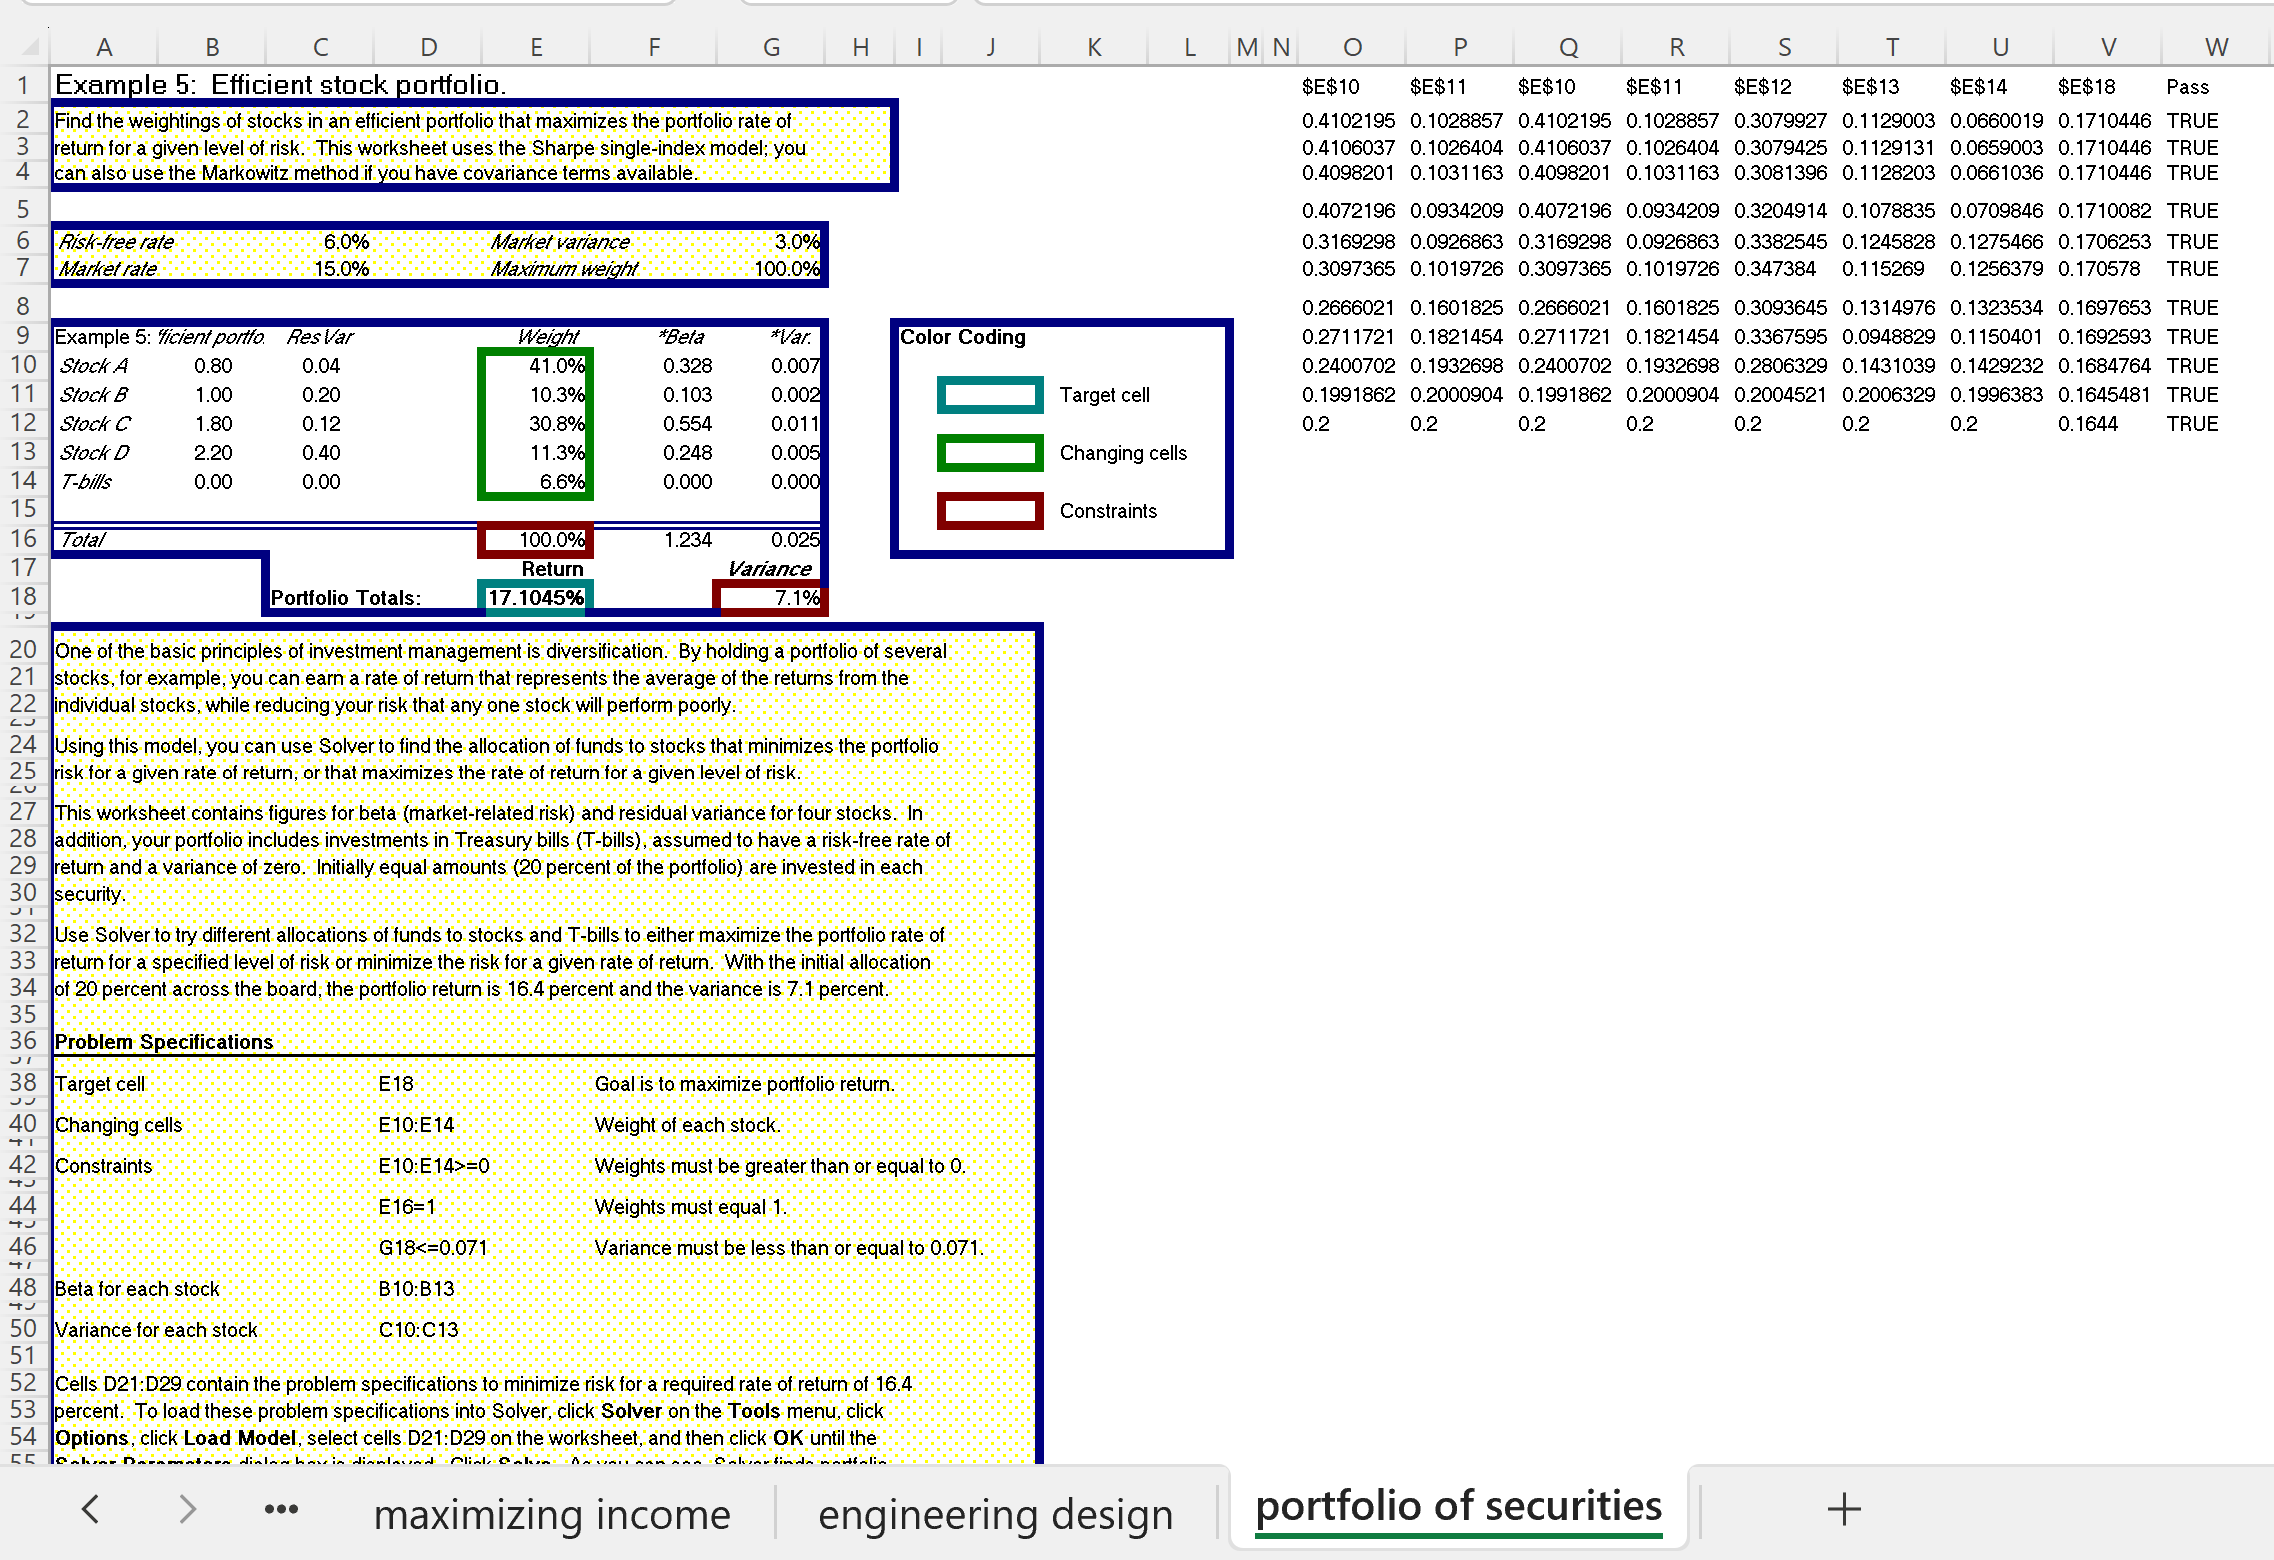
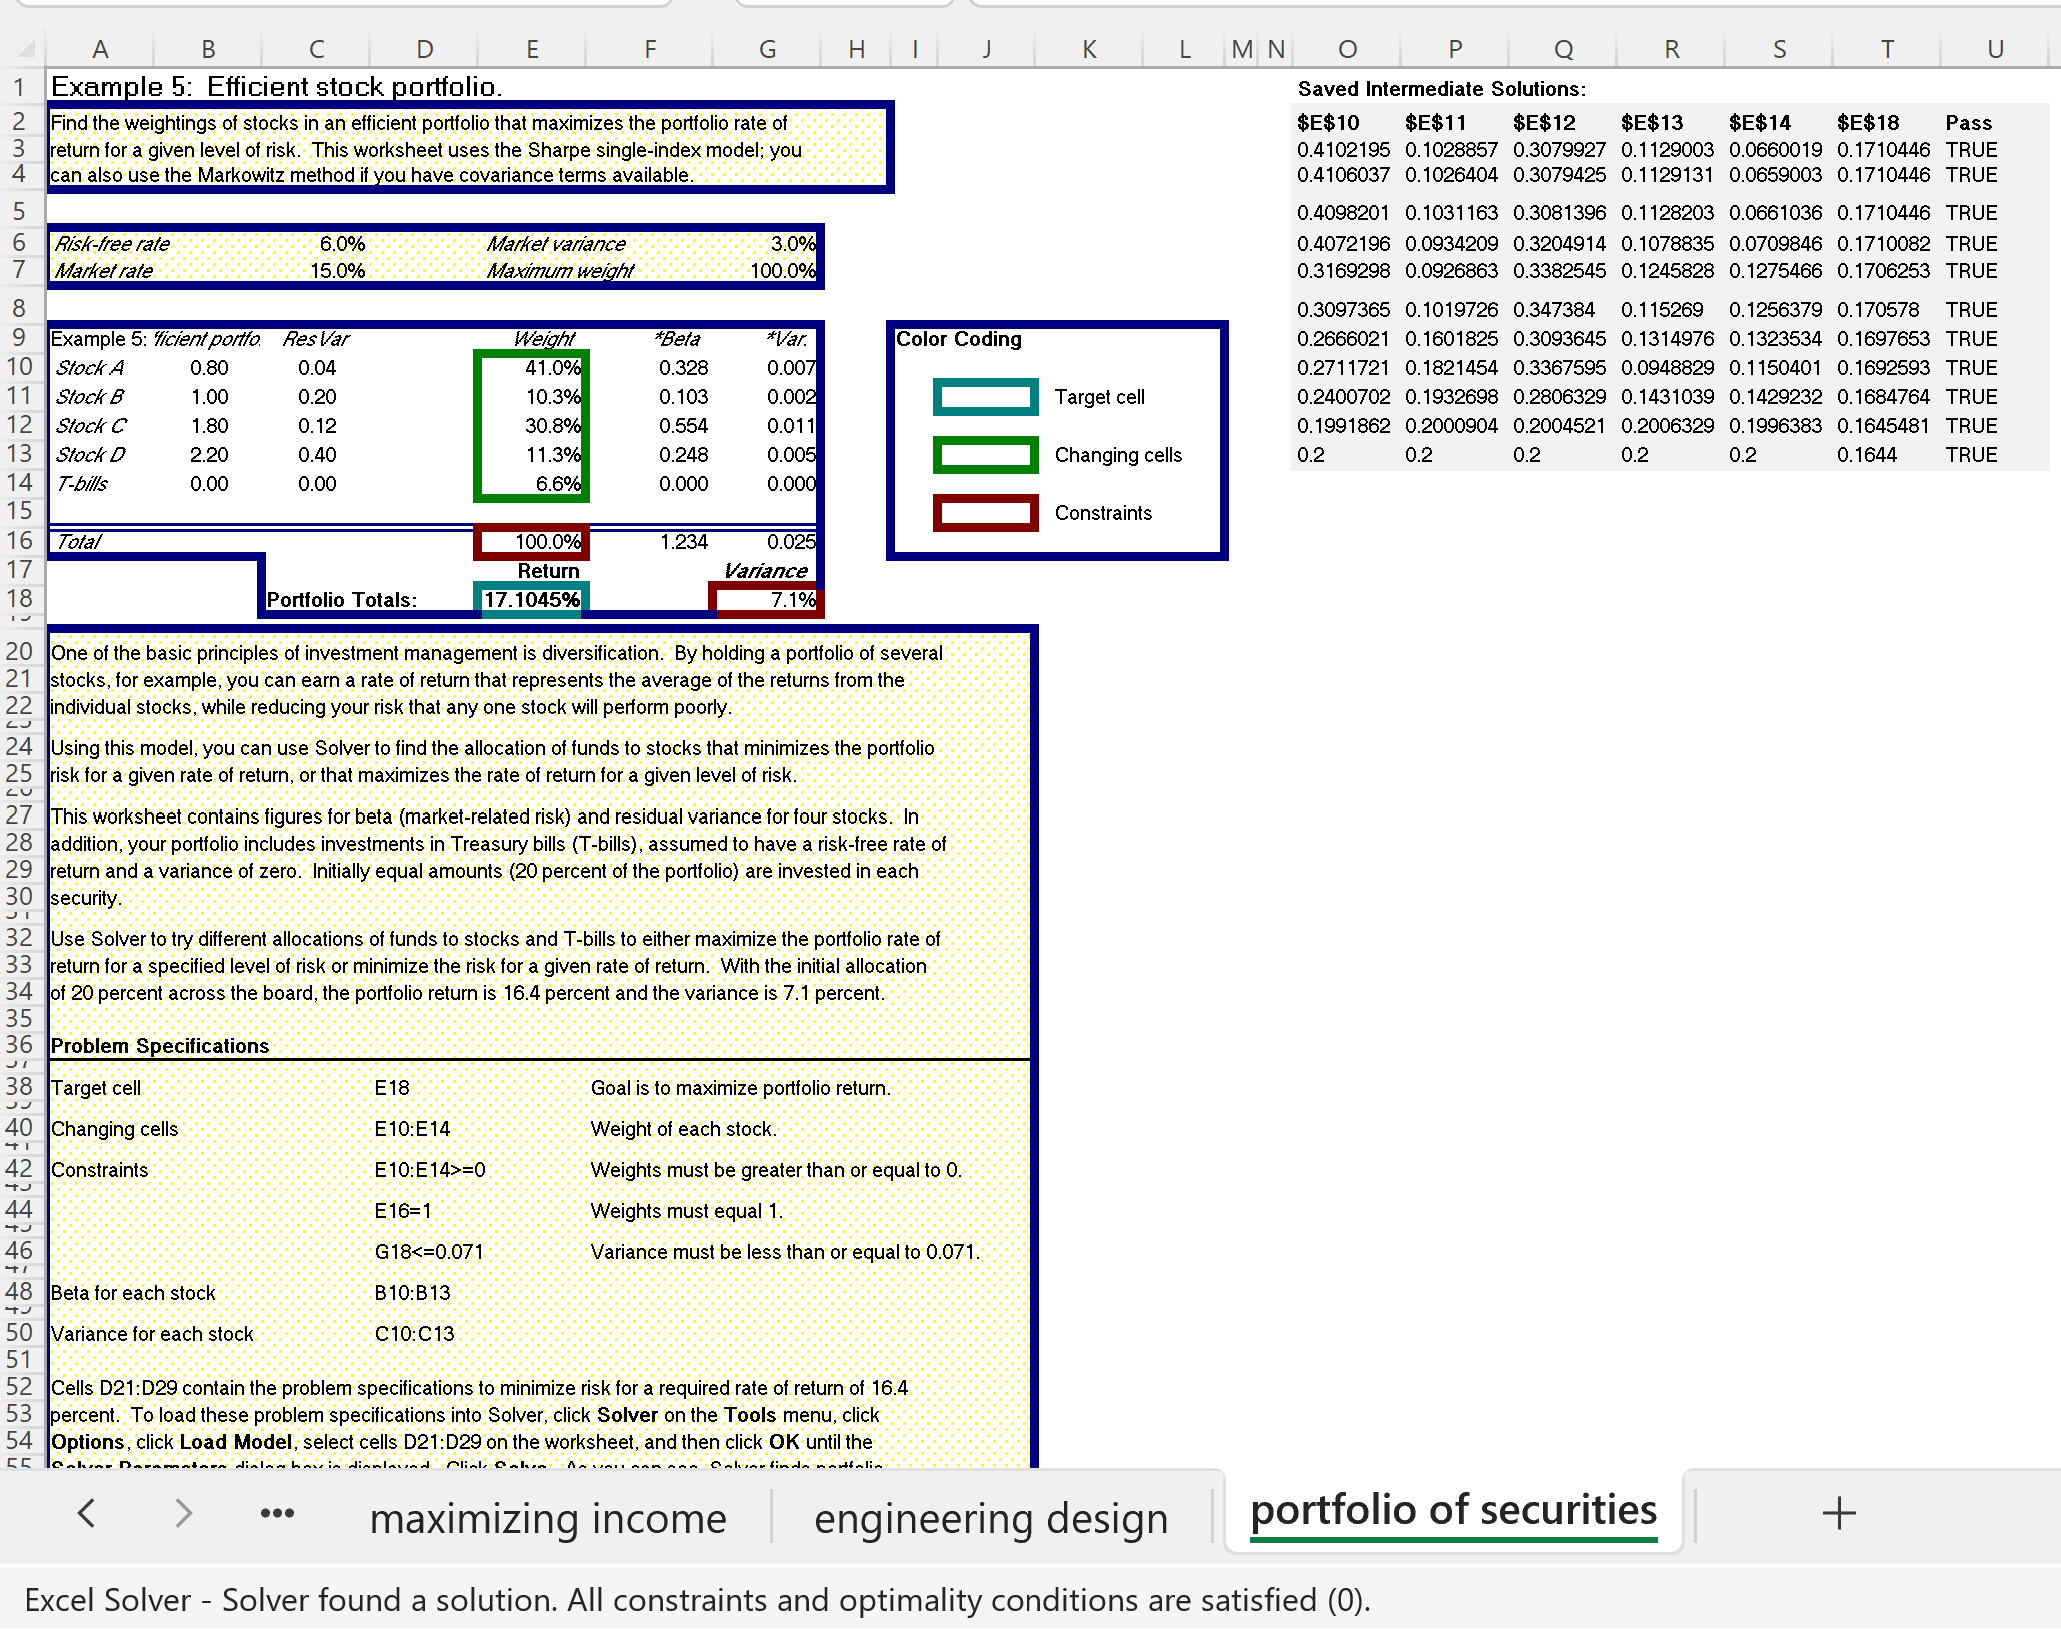
initial update

Changed region(s): [[0.0, 0.0, 0.9937, 1.0], [0.9626, 0.0, 0.9937, 0.0615]]

diff --git a/README.md b/README.md
@@ -62,8 +62,8 @@ Sub Solve_Portfolio_of_Securities()
     
     'save all trial solutions that passed the constraints to the worksheet
     If Problem.Solver.SaveAllTrialSolutions Then
-        ws.Range("o1:az10000").ClearContents
-        Problem.SaveSolutionsToRange ws.Range("o1"), keepOnlyValid:=True
+        ws.Range("o2:az10000").ClearContents
+        Problem.SaveSolutionsToRange ws.Range("o2"), keepOnlyValid:=True
     End If
 End Sub
 ```
